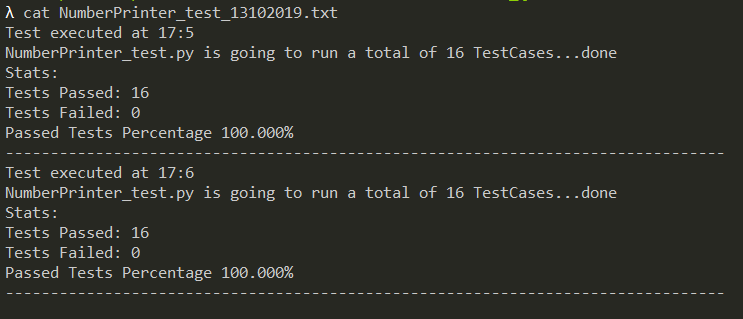
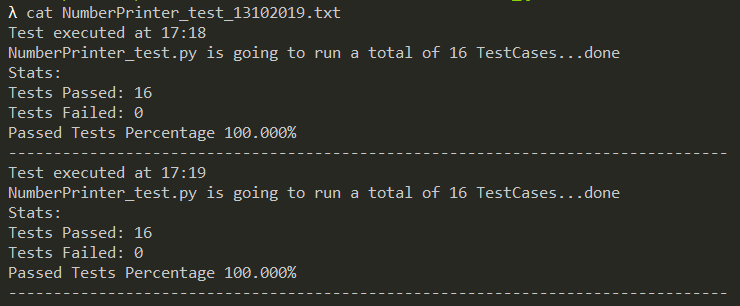
Very minor fix about time/date formatting

Changed region(s): [[0.0, 0.0, 0.9635, 0.9412]]

diff --git a/support/NumberPrinterTestsLauncher.py b/support/NumberPrinterTestsLauncher.py
@@ -73,8 +73,8 @@ def AppendLogToFile (filename, content):
 
     # Open file and write header (append in case already exist)
     # Create new log every day
-    f = open(filename + "_" + str(datetime.date.today().day) + str(datetime.date.today().month)+ str(datetime.date.today().year) + ".txt", "a+")
-    f.write("Test executed at " + str(datetime.datetime.now().hour) + ":" + str(datetime.datetime.now().minute) + "\n")
+    f = open(filename + "_" + str(datetime.date.today().day).zfill(2) + str(datetime.date.today().month).zfill(2) + str(datetime.date.today().year) + ".txt", "a+")
+    f.write("Test executed at " + str(datetime.datetime.now().hour).zfill(2) + ":" + str(datetime.datetime.now().minute).zfill(2) + "\n")
     
     # Test output content
     f.write(content)
